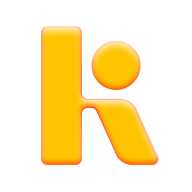
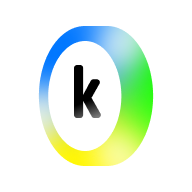
Новые иконки и логотип, убрана вибрация

diff --git a/index.html b/index.html
@@ -9,7 +9,14 @@
     <meta name="theme-color" content="#141414">
     <meta name="apple-mobile-web-app-capable" content="yes">
     <meta name="apple-mobile-web-app-status-bar-style" content="black-translucent">
-    <link rel="apple-touch-icon" href="img/icon-192.png">
+    <link rel="icon" type="image/x-icon" href="/favicon.ico">
+    <link rel="icon" type="image/png" sizes="16x16" href="./img/">
+    <link rel="icon" type="image/png" sizes="32x32" href="/favicon-32x32.png">
+    <link rel="icon" type="image/png" sizes="48x48" href="/favicon-48x48.png">
+    <link rel="icon" type="image/png" sizes="64x64" href="/favicon-64x64.png">
+    <link rel="icon" type="image/png" sizes="128x128" href="/favicon-128x128.png">
+    <link rel="icon" type="image/png" sizes="256x256" href="/favicon-256x256.png">
+    <link rel="icon" type="image/svg+xml" href="/icon-svg.svg">
     <link rel="stylesheet"
         href="https://fonts.googleapis.com/css2?family=Material+Symbols+Rounded:opsz,wght,FILL,GRAD@20..48,100..700,0..1,-50..200" />
     <link
@@ -262,7 +269,7 @@
     </div>
     <div class="modal" id="confirmation-modal">
         <div class="modal-content confirmation-content">
-            <img class="illustation" src="/img/trash.svg">
+            <img class="illustation" src="./img/trash.svg">
             <div class="confirm-message-block">
                 <h3 id="confirm-title" class="confirm-title">Удалить запись?</h3>
                 <p id="confirm-text" class="confirm-text">Это действие нельзя будет отменить.</p>
@@ -274,15 +281,15 @@
         </div>
     </div>
     <script type="module" src="script.js"></script>
-<script>
-    if ('serviceWorker' in navigator) {
-        window.addEventListener('load', () => {
-            navigator.serviceWorker.register('sw.js')
-                .then(reg => console.log('Service Worker registered!', reg))
-                .catch(err => console.log('Service Worker failed:', err));
-        });
-    }
-</script>
+    <script>
+        if ('serviceWorker' in navigator) {
+            window.addEventListener('load', () => {
+                navigator.serviceWorker.register('sw.js')
+                    .then(reg => console.log('Service Worker registered!', reg))
+                    .catch(err => console.log('Service Worker failed:', err));
+            });
+        }
+    </script>
 </body>
 
 </html>

diff --git a/js/app.js b/js/app.js
@@ -25,7 +25,6 @@ export const app = {
 
 toggleTheme: () => {
         // 1. Просто переключаем класс (CSS сделает остальное)
-        haptics.impactMedium();
         document.body.classList.toggle('light-theme');
         
         // 2. Проверяем, включился ли он
@@ -129,8 +128,9 @@ toggleTheme: () => {
     toggleHaptics: (el) => {
         haptics.enabled = el.checked;
         localStorage.setItem('hapticsEnabled', el.checked);
-        // Даем пользователю почувствовать результат сразу
-        if (el.checked) haptics.impactMedium();
+        
+        if (el.checked);
+            
     },
 
     saveService: () => {
@@ -204,7 +204,6 @@ toggleTheme: () => {
         if (app.editingRecordId) records[records.findIndex(r => r.id === app.editingRecordId)] = rData;
         else records.push(rData);
         storage.saveRecords(records);
-        haptics.success();
         ui.toggleModal(false);
         app.currentTab === 'home' ? ui.renderToday() : ui.renderHistory();
     },
@@ -229,7 +228,6 @@ toggleTheme: () => {
     deleteCurrentRecord: () => {
         if (!app.editingRecordId) return;
         ui.showConfirmDialog('Удалить запись?', 'Запись будет удалена безвозвратно.', () => {
-            haptics.error();
             storage.saveRecords(storage.getRecords().filter(r => r.id !== app.editingRecordId));
             ui.toggleModal(false);
             app.currentTab === 'home' ? ui.renderToday() : ui.renderHistory();

diff --git a/js/ui.js b/js/ui.js
@@ -362,7 +362,6 @@ const baseUi = {
     setServiceFilter: (c) => { app.serviceFilter = c; document.querySelectorAll('.filter-service').forEach(b => b.classList.toggle('active', b.innerText === c || (c === 'all' && b.innerText === 'Все'))); ui.renderServices(); },
     resetDateFilter: () => ui.setHistoryFilter('today'),
     switchTab: (t) => {
-        haptics.impactLight();
         app.currentTab = t;
         ['view-home', 'view-history', 'view-settings'].forEach(id => document.getElementById(id).classList.add('hidden'));
         document.querySelectorAll('nav button').forEach(b => b.classList.toggle('active', b.id === 'nav-' + t));
